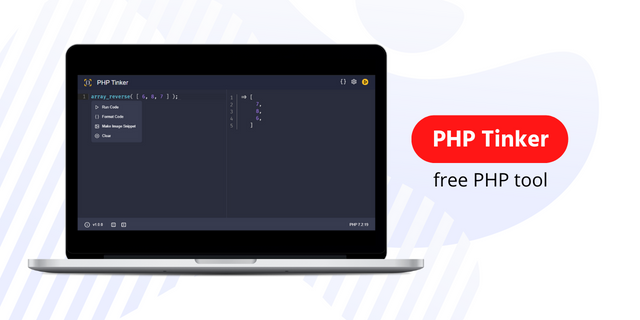
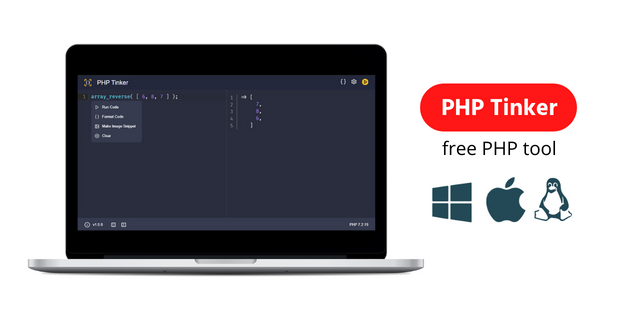
MacOs added

Changed region(s): [[0.625, 0.25, 0.9062, 0.7188]]

diff --git a/index.html b/index.html
@@ -41,7 +41,7 @@
                     href="https://github.com/laravelarticle/phptinker/releases/download/v1.0.0/phptinker-win.zip">Windows</a>
                 <a target="_blank"
                     href="https://github.com/laravelarticle/phptinker/releases/download/v1.0.0/phptinker-linux.zip">Linux</a>
-                <!-- <a href="#">MacOS</a> -->
+                <a target="_blank" href="https://github.com/laravelarticle/phptinker/releases/download/v1.0.0/phptinker-mac.zip">MacOS</a>
             </p>
 
             <br>
@@ -50,11 +50,11 @@
 
             <div style="text-align: center ;margin-bottom: 10px; display: flex; align-items: center; justify-content: center;">
                 <a href="https://github.com/laravelarticle/phptinker" target="_blank">
-                    <img src="https://badgen.net/github/stars/laravelarticle/phptinker" alt="PHP Tinker GitHub">
+                    <img src="https://badgen.net/github/stars/laravelarticle/phptinker?label=GitHub Stars" alt="PHP Tinker GitHub">
                 </a>
             </div>
 
-            <p>Mac OS - comming soon</p>
+            <p>Support Us</p>
 
         </div>
     </header>
